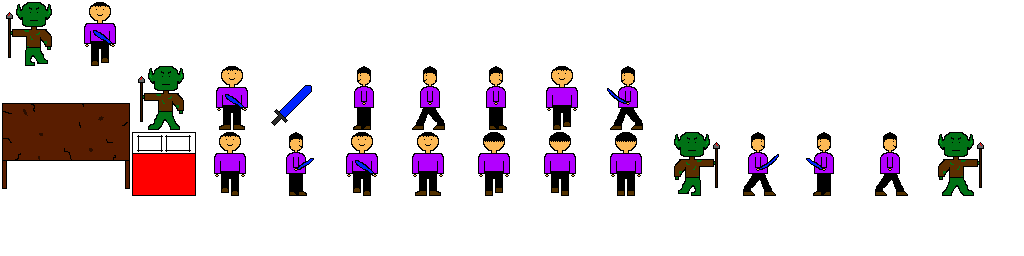
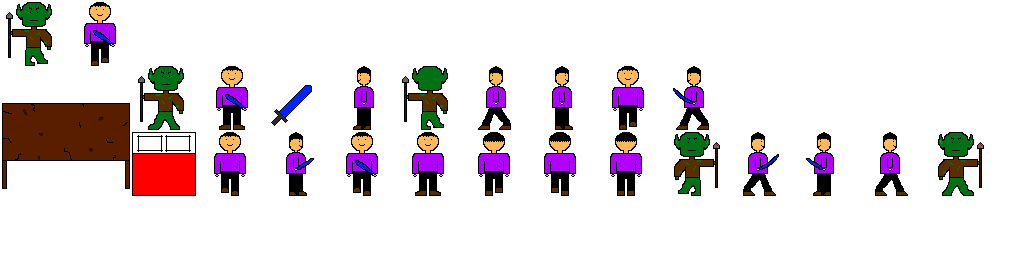
added background texture

diff --git a/core/src/main/java/com/engine/project1/Main.java b/core/src/main/java/com/engine/project1/Main.java
@@ -3,6 +3,7 @@ package com.engine.project1;
 import com.badlogic.gdx.ApplicationAdapter;
 import com.badlogic.gdx.Gdx;
 import com.badlogic.gdx.graphics.GL20;
+import com.badlogic.gdx.graphics.OrthographicCamera;
 import com.badlogic.gdx.graphics.Texture;
 import com.badlogic.gdx.graphics.g2d.Sprite;
 import com.badlogic.gdx.graphics.g2d.SpriteBatch;
@@ -25,10 +26,13 @@ public class Main extends ApplicationAdapter {
     public ShapeRenderer shapeRenderer;
     public Weapon sword;
 
+    public OrthographicCamera camera;
+    public float viewportWidth = 640f;
+    public float viewportHeight = 480f;
+    public Texture texture;
 
     @Override
     public void create() {
-
 
         atlas = new TextureAtlas(Gdx.files.internal("Atlas/game_atlas_newnew.atlas"));
         spriteBatch = new SpriteBatch();
@@ -39,7 +43,13 @@ public class Main extends ApplicationAdapter {
         bed = new Asset(atlas);
         shapeRenderer = new ShapeRenderer();
 
+
+        camera = new OrthographicCamera(WIDTH, HEIGHT);
+        camera.position.set(WIDTH / 2, HEIGHT / 2, 0);
+        camera.update();
+        texture = new Texture("texturetwo.png");
     }
+
 
     @Override
     public void render() {
@@ -48,7 +58,10 @@ public class Main extends ApplicationAdapter {
         Gdx.gl.glClear(GL20.GL_COLOR_BUFFER_BIT);
         Gdx.gl.glClearColor(0.54f, 0.54f, 0.54f, 1.0f);
 
+        spriteBatch.setProjectionMatrix(camera.combined);
+
         spriteBatch.begin();
+        spriteBatch.draw(texture, 0, 0);
 
         hero.checkSprite(atlas);
         hero.inputHandling(deltaTime, atlas);
@@ -67,8 +80,9 @@ public class Main extends ApplicationAdapter {
 
         hero.updateRectangle();
         sword.updateRectangle();
-        goblinOne.updateRectangle();
         table.updateRectangle();
+        goblinOne.updateRectangle();
+
 
 
         shapeRenderer.rect(sword.xPos, sword.yPos, sword.swordSize, sword.swordSize);
@@ -88,5 +102,8 @@ public class Main extends ApplicationAdapter {
     @Override
     public void resize(int width, int height) {
         spriteBatch.getProjectionMatrix().setToOrtho2D(hero.xPos, hero.yPos, width, height);
+        camera.viewportWidth = viewportWidth;
+        camera.viewportHeight = viewportHeight;
+        camera.update();
     }
 }

diff --git a/core/src/main/java/com/engine/project1/Player.java b/core/src/main/java/com/engine/project1/Player.java
@@ -19,7 +19,7 @@ public class Player extends InputAdapter {
     public float yPos = 0.0f;
     public float speed = 100.0f;
     public float hp = 100.0f;
-    public int strength = 10;
+    public int strength = 7;
     public boolean isMoving = false;
     public int lastDirection = Input.Keys.DOWN;
     Rectangle playerRectangle;
@@ -80,6 +80,7 @@ public class Player extends InputAdapter {
                 attackTurn = 'p';
             }
         }
+            goblin.goblinSprite.setPosition(-1000, -1000);
     }
 
     public void checkCollision() {
